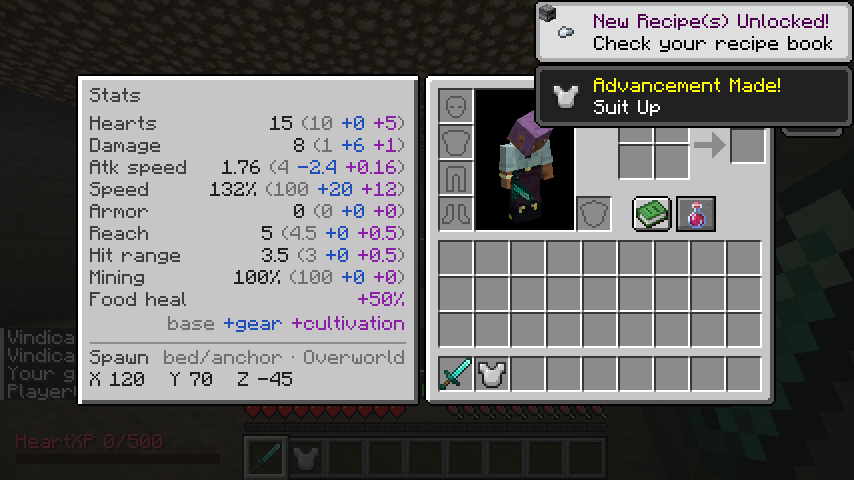
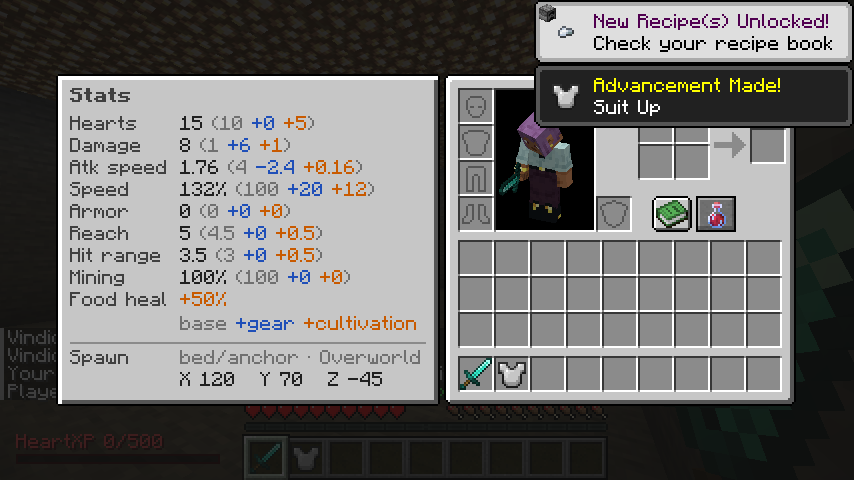
Stats panel: values in a left-aligned second column, cultivation in orange, bold title

Changed region(s): [[0.0609, 0.1562, 1.0, 0.8438]]

diff --git a/mods/permahearts/src/client/java/io/github/huydangtruong/permahearts/client/StatsPanel.java b/mods/permahearts/src/client/java/io/github/huydangtruong/permahearts/client/StatsPanel.java
@@ -19,6 +19,7 @@ import net.minecraft.client.gui.components.ImageButton;
 import net.minecraft.client.gui.components.Tooltip;
 import net.minecraft.client.gui.screens.inventory.InventoryScreen;
 import net.minecraft.client.gui.screens.recipebook.RecipeBookComponent;
+import net.minecraft.ChatFormatting;
 import net.minecraft.network.chat.Component;
 import net.minecraft.world.item.ItemStack;
 
@@ -28,7 +29,7 @@ import net.minecraft.world.item.ItemStack;
  * the inventory moves right, and opening one closes the other. Data comes from the server (StatsSync), once a second.
  */
 public final class StatsPanel {
-	public static final int W = 172;
+	public static final int W = 192;
 	public static final int H = 166;
 	private static final int GAP = 2;
 	private static final int LINE = 11;
@@ -37,7 +38,7 @@ public final class StatsPanel {
 	private static final int TOTAL = 0xFF202020;
 	private static final int BASE = 0xFF707070;
 	private static final int GEAR = 0xFF1F4FB8;
-	private static final int BONUS = 0xFF8B1FA8;
+	private static final int BONUS = 0xFFC85A00; // orange (D31)
 
 	private static final Map<String, String> LABELS = Map.of(
 		"hearts", "Hearts", "damage", "Damage", "attack_speed", "Atk speed", "speed", "Speed", "armor", "Armor",
@@ -150,43 +151,48 @@ public final class StatsPanel {
 
 		int tx = x0 + 7;
 		int right = x1 - 7;
-		g.text(font, "Stats", tx, y0 + 7, TEXT, false);
+		g.text(font, Component.literal("Stats").withStyle(ChatFormatting.BOLD), tx, y0 + 7, TEXT, false);
 		var player = Minecraft.getInstance().player;
 		PlayerStats stats = player == null ? null : player.getAttached(StatsSync.STATS);
 		if (stats == null) {
 			g.text(font, "Needs the mod on the server", tx, y0 + 22, TEXT, false);
 			return;
 		}
+		// second column: left-aligned, right after the widest label
+		int vx = tx + labelWidth(font) + 6;
 		int y = y0 + 21;
 		for (PlayerStats.Row r : stats.rows()) {
 			g.text(font, LABELS.getOrDefault(r.id(), r.id()), tx, y, TEXT, false);
 			String[] p = StatMath.parts(r);
-			drawRight(g, font, right, y, new String[] {p[0], " (", p[1], " ", p[2], " ", p[3], ")"},
+			drawLeft(g, font, vx, y, new String[] {p[0], " (", p[1], " ", p[2], " ", p[3], ")"},
 				new int[] {TOTAL, BASE, BASE, BASE, GEAR, BASE, BONUS, BASE});
 			y += LINE;
 		}
 		g.text(font, "Food heal", tx, y, TEXT, false);
 		String heal = "+" + StatMath.num(ElixirStat.VITALITY.bonus(stats.vitality()) * 100) + "%";
-		drawRight(g, font, right, y, new String[] {heal}, new int[] {stats.vitality() > 0 ? BONUS : BASE});
+		drawLeft(g, font, vx, y, new String[] {heal}, new int[] {stats.vitality() > 0 ? BONUS : BASE});
 		y += LINE + 1;
-		drawRight(g, font, right, y, new String[] {"base ", "+gear ", "+cultivation"}, new int[] {BASE, GEAR, BONUS});
+		drawLeft(g, font, vx, y, new String[] {"base ", "+gear ", "+cultivation"}, new int[] {BASE, GEAR, BONUS});
 		y += LINE + 2;
 		g.fill(tx, y, right, y + 1, 0xFF8B8B8B);
 		y += 4;
 		PlayerStats.Spawn s = stats.spawn();
 		g.text(font, "Spawn", tx, y, TEXT, false);
-		drawRight(g, font, right, y, new String[] {(s.personal() ? "bed/anchor" : "world spawn") + " · " + dimension(s.dimension())},
+		drawLeft(g, font, vx, y, new String[] {(s.personal() ? "bed/anchor" : "world spawn") + " · " + dimension(s.dimension())},
 			new int[] {BASE});
 		y += LINE;
-		g.text(font, "X " + s.x() + "   Y " + s.y() + "   Z " + s.z(), tx, y, TOTAL, false);
+		drawLeft(g, font, vx, y, new String[] {"X " + s.x() + "   Y " + s.y() + "   Z " + s.z()}, new int[] {TOTAL});
 	}
 
-	private static void drawRight(GuiGraphicsExtractor g, Font font, int right, int y, String[] parts, int[] colors) {
-		int width = 0;
-		for (String s : parts) {
-			width += font.width(s);
+	private static int labelWidth(Font font) {
+		int w = font.width("Food heal");
+		for (String l : LABELS.values()) {
+			w = Math.max(w, font.width(l));
 		}
-		int x = right - width;
+		return Math.max(w, font.width("Spawn"));
+	}
+
+	private static void drawLeft(GuiGraphicsExtractor g, Font font, int x, int y, String[] parts, int[] colors) {
 		for (int i = 0; i < parts.length; i++) {
 			g.text(font, parts[i], x, y, colors[i], false);
 			x += font.width(parts[i]);

diff --git a/docs/mods/permahearts/spec.md b/docs/mods/permahearts/spec.md
@@ -66,7 +66,7 @@
 ## Bảng chỉ số (0.8.2, D31)
 
 - Nút bình linh dược cạnh nút sách công thức trong túi đồ Survival (không có trong túi đồ Creative). Bấm: bảng bên trái, túi đồ dời phải; mở sách công thức thì bảng đóng và ngược lại; game nhớ bảng đang mở cho tới khi tắt game.
-- Mỗi dòng `tổng (gốc +đồ +tu luyện)`; Hearts tính bằng tim; Speed và Mining tính % so với gốc. "Đồ" là mọi thứ không phải của mod (đồ, hiệu ứng thuốc, mod khác); "tu luyện" là linh dược + tim thêm (HeartXP/chết).
+- Hai cột: tên chỉ số, rồi giá trị canh trái `tổng (gốc +đồ +tu luyện)` (gốc xám, đồ xanh dương, tu luyện cam); chữ Stats in đậm; Hearts tính bằng tim; Speed và Mining tính % so với gốc. "Đồ" là mọi thứ không phải của mod (đồ, hiệu ứng thuốc, mod khác); "tu luyện" là linh dược + tim thêm (HeartXP/chết).
 - Food heal: +25% mỗi bình Vitality (D30).
 - Cuối bảng: Spawn — `bed/anchor` (điểm hồi sinh riêng, có thể đã mất nếu giường bị phá) hoặc `world spawn`, thế giới, X Y Z.
 - Server tính và gửi mỗi giây (attachment `permahearts:stats`, chỉ gửi cho chính người đó). Server không có mod: bảng báo "Needs the mod on the server".
